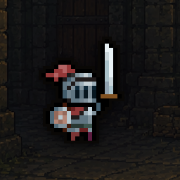
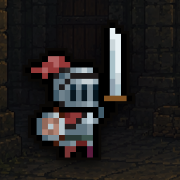
Update Grubstake web build

Changed region(s): [[0.1667, 0.1389, 0.7222, 0.8889]]

diff --git a/assets/games/grubstake/index.html b/assets/games/grubstake/index.html
@@ -111,7 +111,7 @@ body {
 
 		<script src="index.js"></script>
 		<script>
-const GODOT_CONFIG = {"args":[],"canvasResizePolicy":2,"emscriptenPoolSize":8,"ensureCrossOriginIsolationHeaders":true,"executable":"index","experimentalVK":false,"fileSizes":{"index.pck":44692156,"index.wasm":39509339},"focusCanvas":true,"gdextensionLibs":[],"godotPoolSize":4};
+const GODOT_CONFIG = {"args":[],"canvasResizePolicy":2,"emscriptenPoolSize":8,"ensureCrossOriginIsolationHeaders":true,"executable":"index","experimentalVK":false,"fileSizes":{"index.pck":45028388,"index.wasm":39509339},"focusCanvas":true,"gdextensionLibs":[],"godotPoolSize":4};
 const GODOT_THREADS_ENABLED = false;
 const engine = new Engine(GODOT_CONFIG);
 